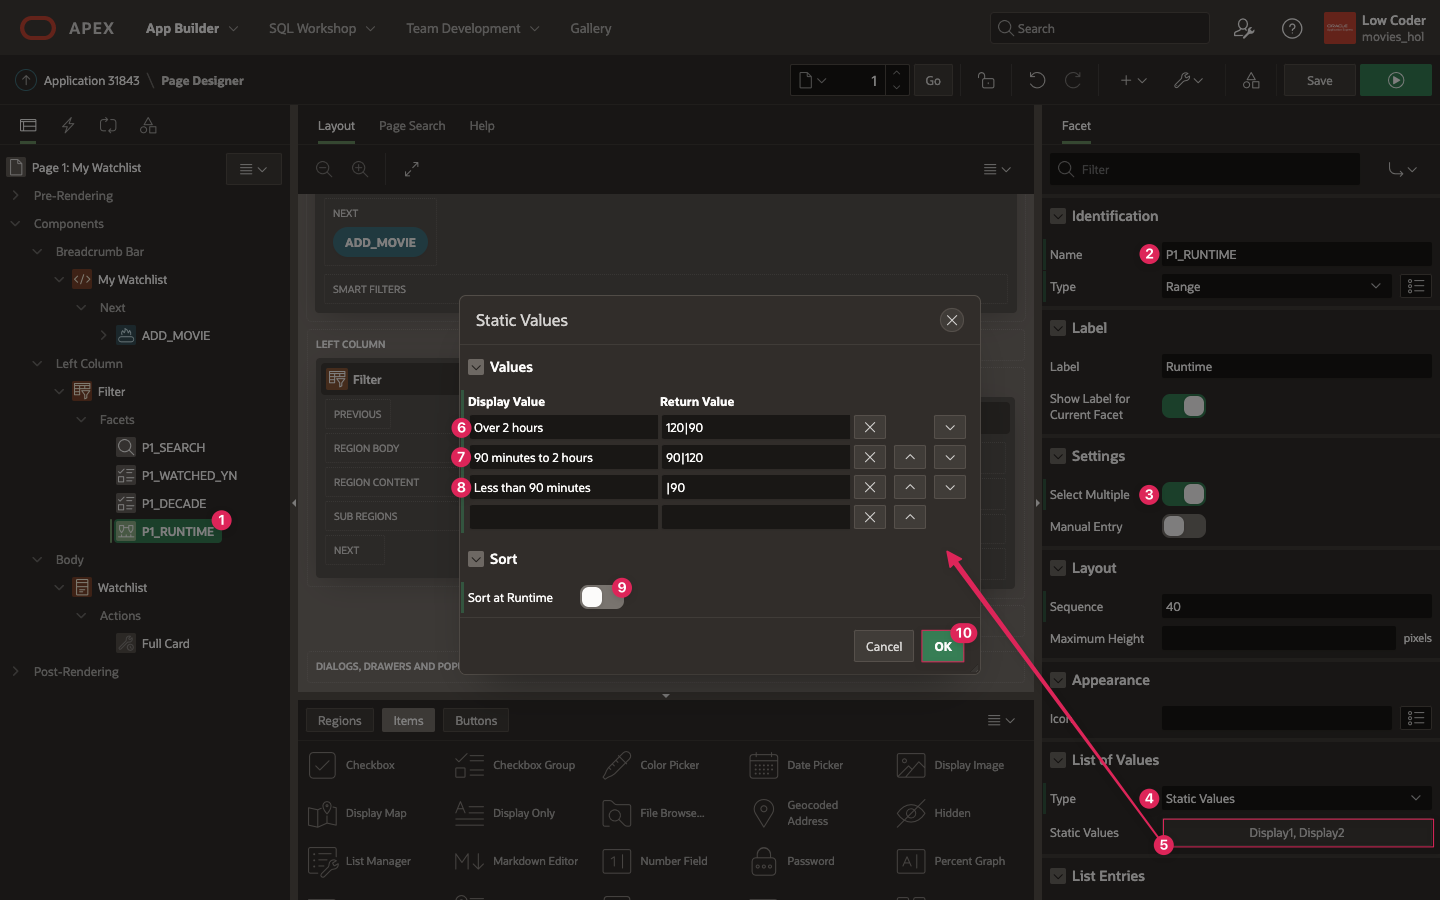
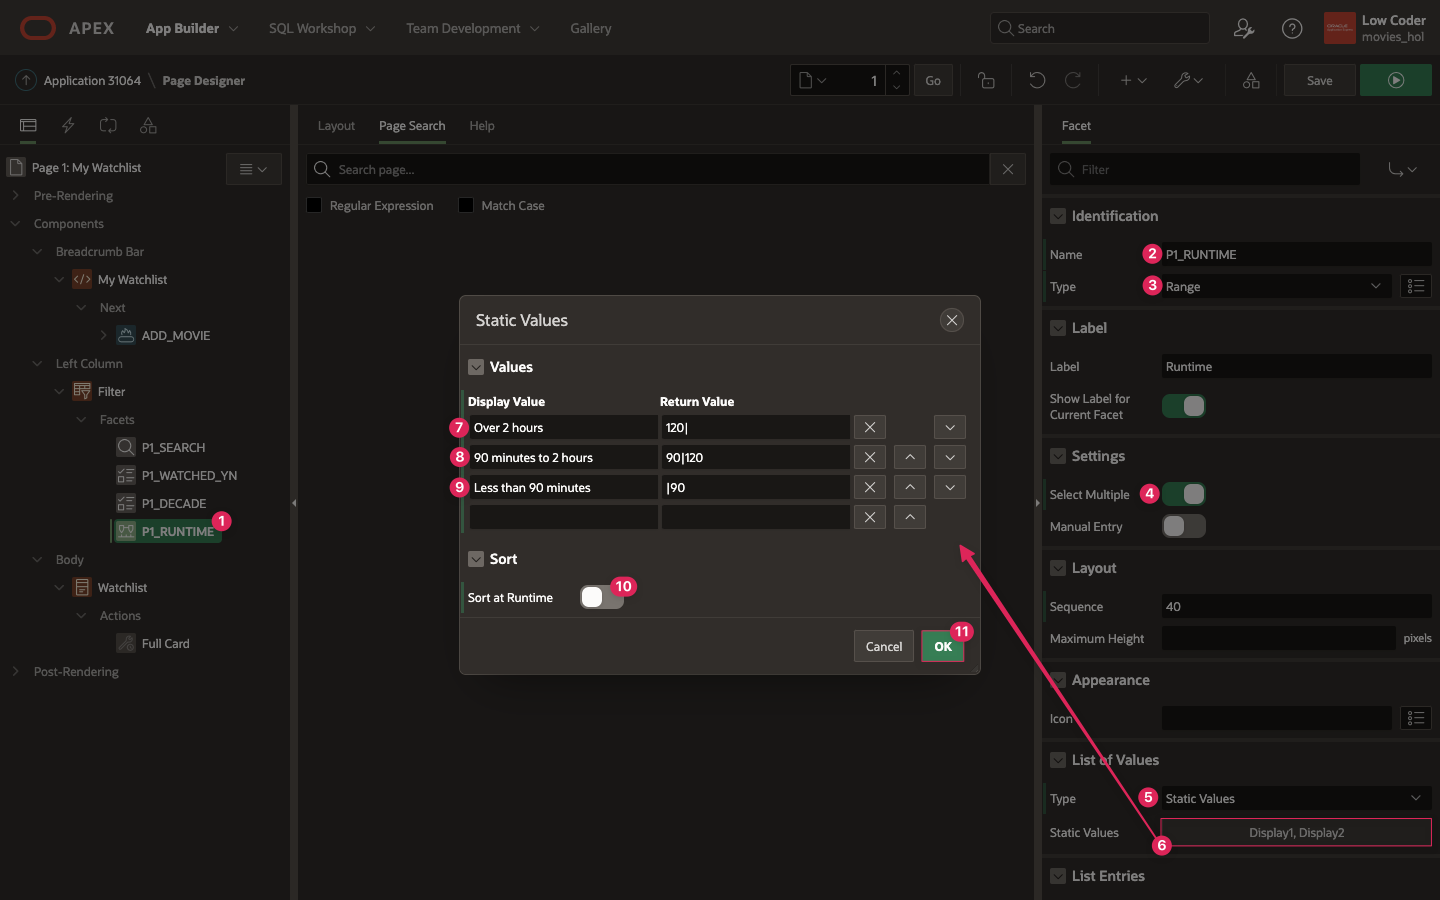
Updates to movies-lab (#31)
* Movies HOL 22.1 updates

Move Movies HOL 21.2 to 21.2 folder and update movies-lab folder to contain lab for APEX 22.1

* Update Movies HOL after feedback

Remove unused images and lab exports, removed Try It Out steps in Lab 1, added note in Lab 2 about Web Credential Name, removed index.html and manifest.json files from main folder.

* Updated index files and catalog file name

Replaced old index.html files in apex-212/movies-lab to have the new, correct content. Changed the TMDB_Catalog.sql name to all lowercase.

* Rename TMDB_Catalog.sql to tmdb_catalog.sql

* Updated OCW lab titles and added freetier

* Cleanup a couple of bugs in movies HOL

Removed line from Lab 1 that got left behind in last change. Fixed incorrect static value in Runtime facet.

diff --git a/movies-lab/1-create-app/create-app.md b/movies-lab/1-create-app/create-app.md
@@ -125,8 +125,6 @@ In this lab, you will:
 
 3. After you have received your API Key, copy it and store it somewhere where you will be able to easily access it.
 
-4. On the **Definition** tab towards the bottom of the page, you can further explore the type of data that gets returned. Under **Responses**, Schema will show you the object fields and data types, while **Example** will give you example data without having to make a request like you did above.
-
 You now know how to create, run, and update the theme of an application. You may now **proceed to the next lab**.
 
 ## Resources
